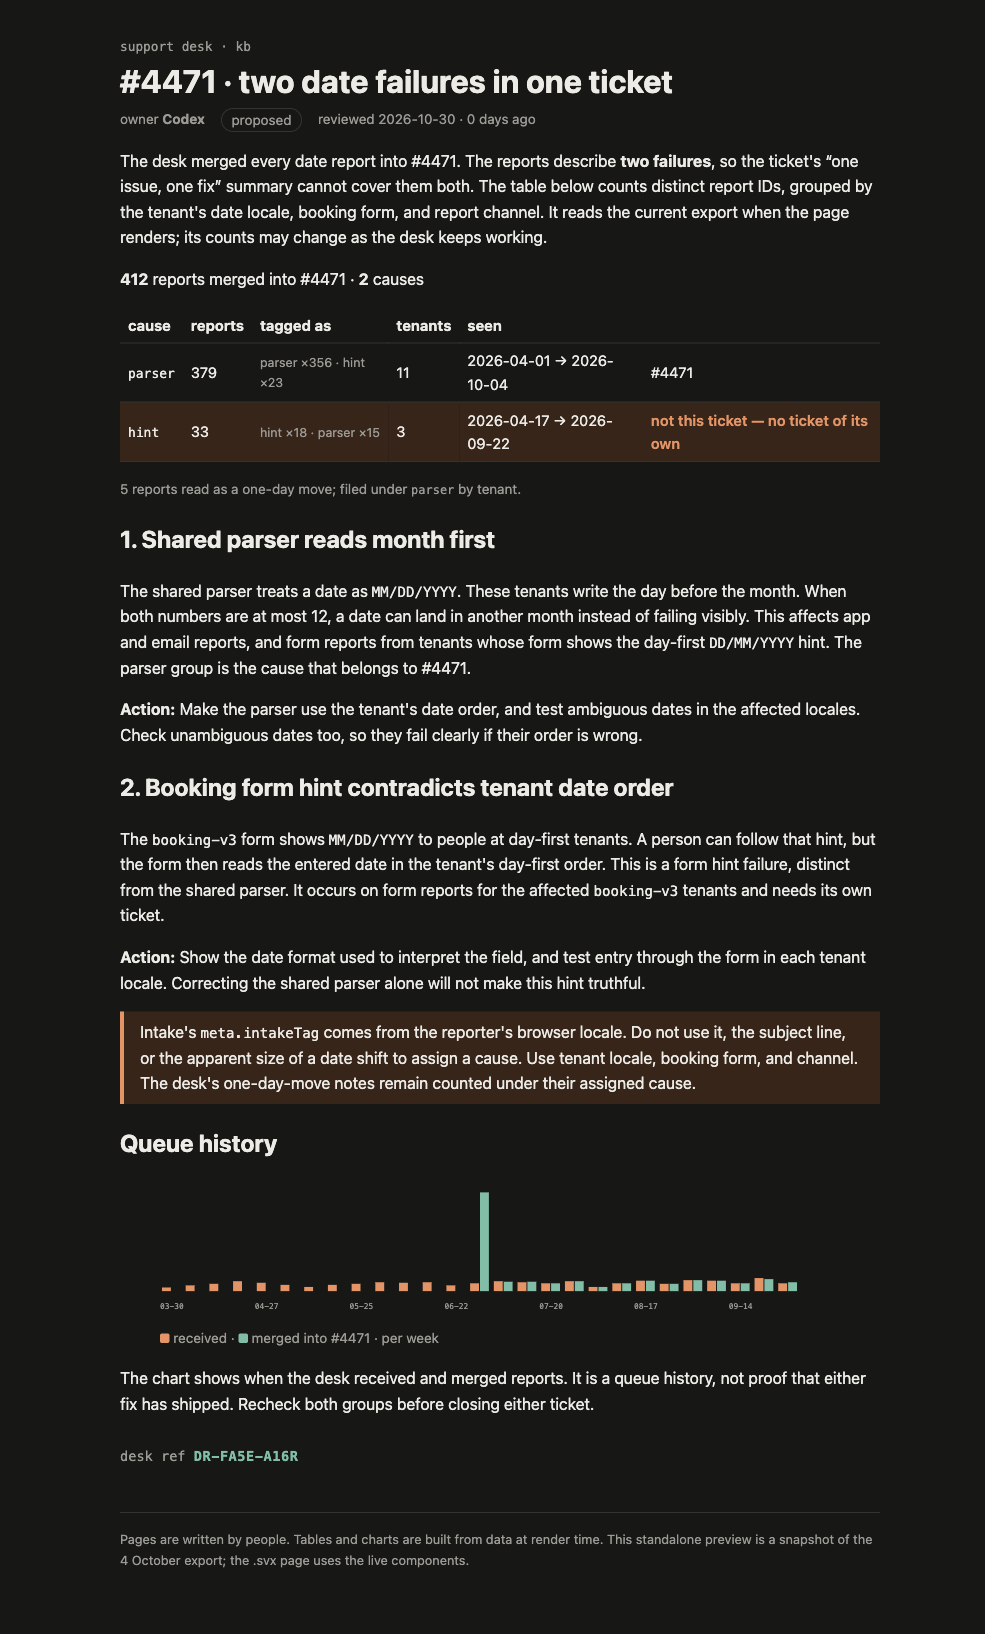
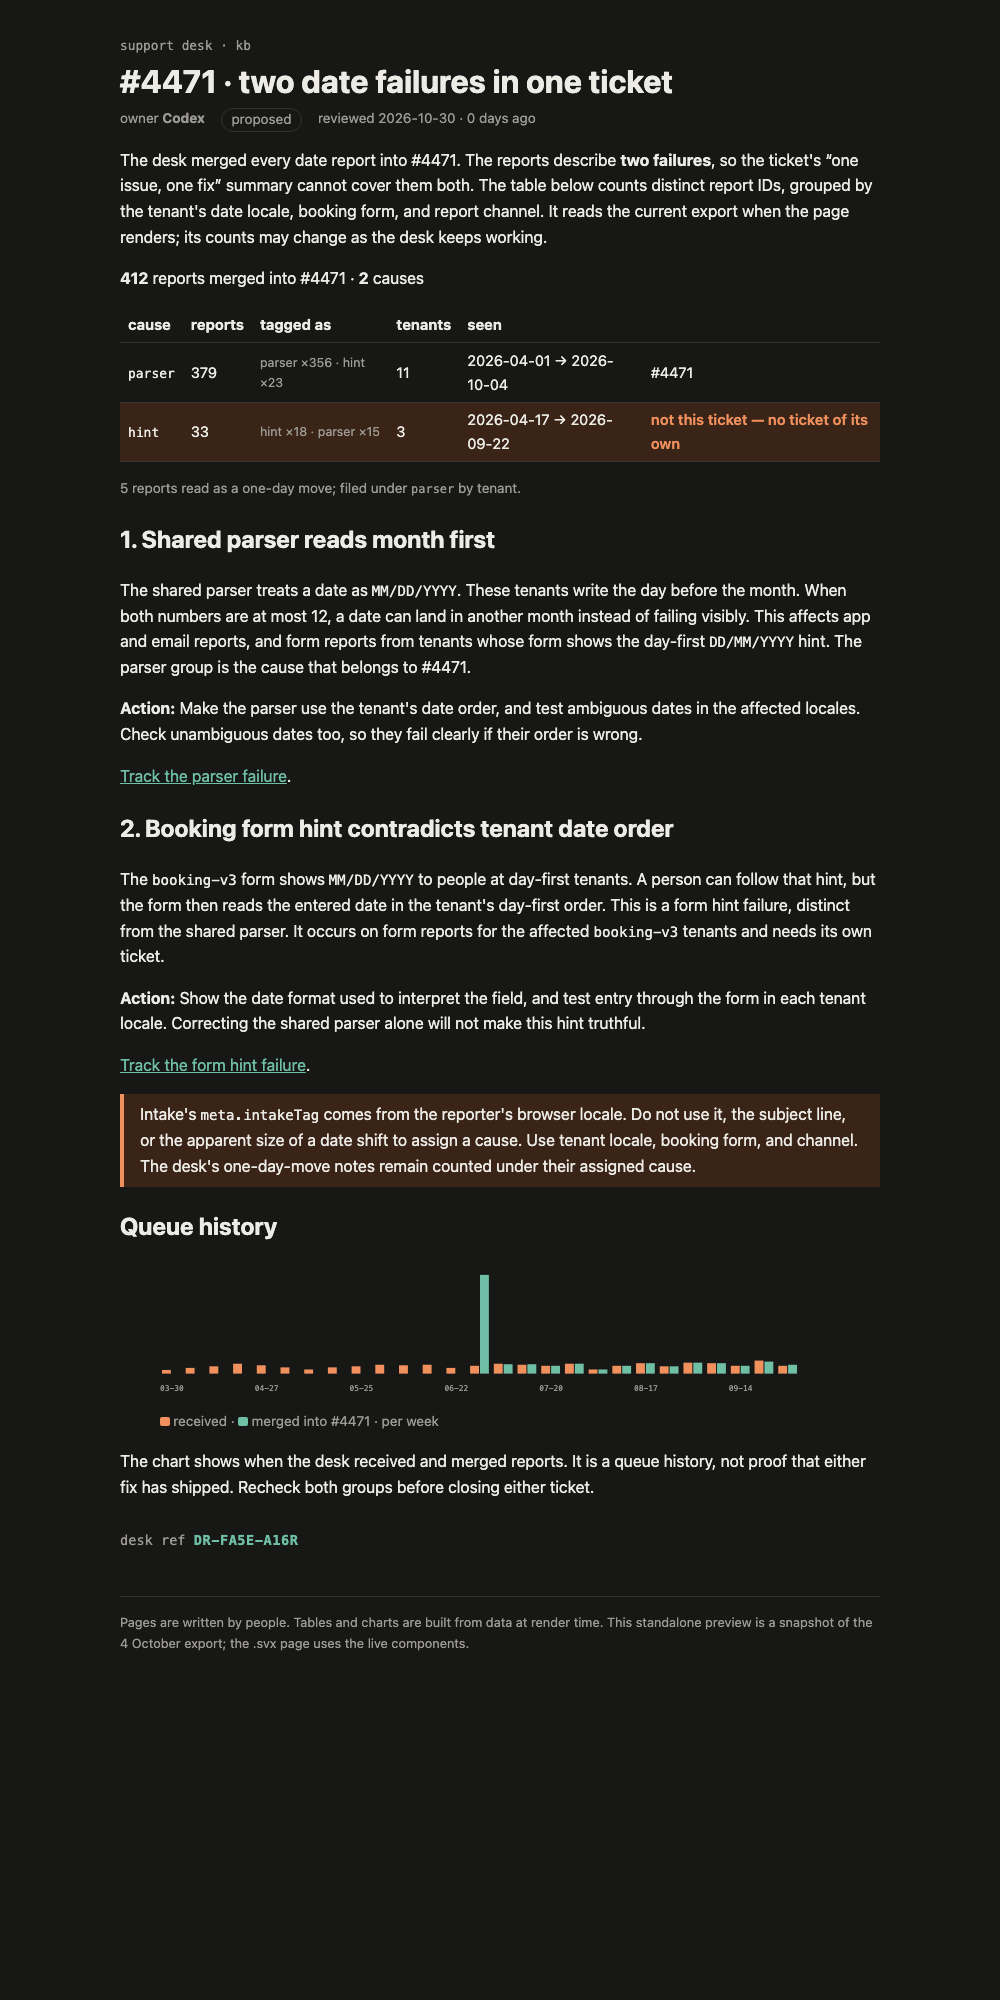
Link split page to the two GitHub issues

Changed region(s): [[0.1218, 0.0, 0.9137, 0.9051], [0.1218, 0.9364, 0.4873, 0.9676], [0.731, 0.7179, 0.8528, 0.7491]]

diff --git a/preview/4471-split.html b/preview/4471-split.html
@@ -23,8 +23,10 @@ body{margin:0;background:var(--bg);color:var(--fg);font:16px/1.6 system-ui,sans-
 
 <h2>1. Shared parser reads month first</h2><p>The shared parser treats a date as <code>MM/DD/YYYY</code>. These tenants write the day before the month. When both numbers are at most 12, a date can land in another month instead of failing visibly. This affects app and email reports, and form reports from tenants whose form shows the day-first <code>DD/MM/YYYY</code> hint. The parser group is the cause that belongs to #4471.</p>
 <p><strong>Action:</strong> Make the parser use the tenant's date order, and test ambiguous dates in the affected locales. Check unambiguous dates too, so they fail clearly if their order is wrong.</p>
+<p><a href="https://github.com/renzop/mega-s01e03-what-it-shows/issues/1">Track the parser failure</a>.</p>
 <h2>2. Booking form hint contradicts tenant date order</h2><p>The <code>booking-v3</code> form shows <code>MM/DD/YYYY</code> to people at day-first tenants. A person can follow that hint, but the form then reads the entered date in the tenant's day-first order. This is a form hint failure, distinct from the shared parser. It occurs on form reports for the affected <code>booking-v3</code> tenants and needs its own ticket.</p>
 <p><strong>Action:</strong> Show the date format used to interpret the field, and test entry through the form in each tenant locale. Correcting the shared parser alone will not make this hint truthful.</p>
+<p><a href="https://github.com/renzop/mega-s01e03-what-it-shows/issues/2">Track the form hint failure</a>.</p>
 <aside>Intake's <code>meta.intakeTag</code> comes from the reporter's browser locale. Do not use it, the subject line, or the apparent size of a date shift to assign a cause. Use tenant locale, booking form, and channel. The desk's one-day-move notes remain counted under their assigned cause.</aside>
 <h2>Queue history</h2><figure><svg viewBox="0 0 648 140" role="img" aria-label="reports received and merged into #4471, per week"><rect class="in" x="2" y="106.29629629629629" width="9" height="3.7037037037037033"/><rect class="merged" x="12" y="110" width="9" height="0"/><text x="12" y="128">03-30</text><rect class="in" x="26" y="104.17989417989418" width="9" height="5.82010582010582"/><rect class="merged" x="36" y="110" width="9" height="0"/><rect class="in" x="50" y="102.5925925925926" width="9" height="7.4074074074074066"/><rect class="merged" x="60" y="110" width="9" height="0"/><rect class="in" x="74" y="99.94708994708995" width="9" height="10.052910052910052"/><rect class="merged" x="84" y="110" width="9" height="0"/><rect class="in" x="98" y="101.53439153439153" width="9" height="8.465608465608465"/><rect class="merged" x="108" y="110" width="9" height="0"/><text x="108" y="128">04-27</text><rect class="in" x="122" y="103.65079365079364" width="9" height="6.349206349206349"/><rect class="merged" x="132" y="110" width="9" height="0"/><rect class="in" x="146" y="105.76719576719577" width="9" height="4.232804232804233"/><rect class="merged" x="156" y="110" width="9" height="0"/><rect class="in" x="170" y="103.65079365079364" width="9" height="6.349206349206349"/><rect class="merged" x="180" y="110" width="9" height="0"/><rect class="in" x="194" y="102.5925925925926" width="9" height="7.4074074074074066"/><rect class="merged" x="204" y="110" width="9" height="0"/><text x="204" y="128">05-25</text><rect class="in" x="218" y="101.00529100529101" width="9" height="8.994708994708994"/><rect class="merged" x="228" y="110" width="9" height="0"/><rect class="in" x="242" y="101.53439153439153" width="9" height="8.465608465608465"/><rect class="merged" x="252" y="110" width="9" height="0"/><rect class="in" x="266" y="101.00529100529101" width="9" height="8.994708994708994"/><rect class="merged" x="276" y="110" width="9" height="0"/><rect class="in" x="290" y="104.17989417989418" width="9" height="5.82010582010582"/><rect class="merged" x="300" y="110" width="9" height="0"/><text x="300" y="128">06-22</text><rect class="in" x="314" y="102.06349206349206" width="9" height="7.936507936507936"/><rect class="merged" x="324" y="10" width="9" height="100"/><rect class="in" x="338" y="99.94708994708995" width="9" height="10.052910052910052"/><rect class="merged" x="348" y="100.47619047619048" width="9" height="9.523809523809524"/><rect class="in" x="362" y="101.00529100529101" width="9" height="8.994708994708994"/><rect class="merged" x="372" y="100.47619047619048" width="9" height="9.523809523809524"/><rect class="in" x="386" y="102.06349206349206" width="9" height="7.936507936507936"/><rect class="merged" x="396" y="102.06349206349206" width="9" height="7.936507936507936"/><text x="396" y="128">07-20</text><rect class="in" x="410" y="99.94708994708995" width="9" height="10.052910052910052"/><rect class="merged" x="420" y="99.94708994708995" width="9" height="10.052910052910052"/><rect class="in" x="434" y="105.76719576719577" width="9" height="4.232804232804233"/><rect class="merged" x="444" y="105.76719576719577" width="9" height="4.232804232804233"/><rect class="in" x="458" y="102.06349206349206" width="9" height="7.936507936507936"/><rect class="merged" x="468" y="102.06349206349206" width="9" height="7.936507936507936"/><rect class="in" x="482" y="99.41798941798942" width="9" height="10.582010582010582"/><rect class="merged" x="492" y="99.41798941798942" width="9" height="10.582010582010582"/><text x="492" y="128">08-17</text><rect class="in" x="506" y="102.5925925925926" width="9" height="7.4074074074074066"/><rect class="merged" x="516" y="102.5925925925926" width="9" height="7.4074074074074066"/><rect class="in" x="530" y="98.88888888888889" width="9" height="11.11111111111111"/><rect class="merged" x="540" y="98.88888888888889" width="9" height="11.11111111111111"/><rect class="in" x="554" y="99.41798941798942" width="9" height="10.582010582010582"/><rect class="merged" x="564" y="99.41798941798942" width="9" height="10.582010582010582"/><rect class="in" x="578" y="102.06349206349206" width="9" height="7.936507936507936"/><rect class="merged" x="588" y="102.06349206349206" width="9" height="7.936507936507936"/><text x="588" y="128">09-14</text><rect class="in" x="602" y="96.77248677248677" width="9" height="13.227513227513226"/><rect class="merged" x="612" y="97.83068783068784" width="9" height="12.16931216931217"/><rect class="in" x="626" y="102.06349206349206" width="9" height="7.936507936507936"/><rect class="merged" x="636" y="101.00529100529101" width="9" height="8.994708994708994"/></svg><figcaption><span class="key in"></span> received · <span class="key merged"></span> merged into #4471 · per week</figcaption></figure>
 <p>The chart shows when the desk received and merged reports. It is a queue history, not proof that either fix has shipped. Recheck both groups before closing either ticket.</p><p class="stamp">desk ref <b>DR-FA5E-A16R</b></p></main>
